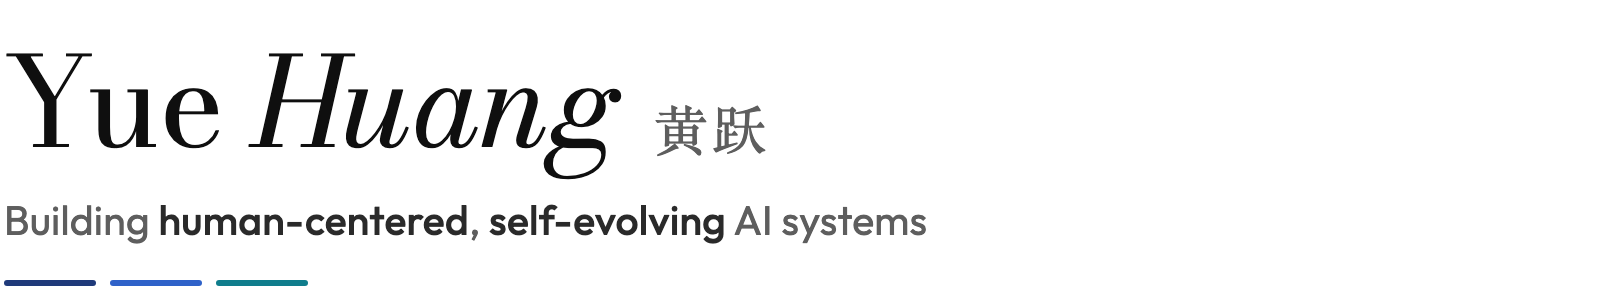
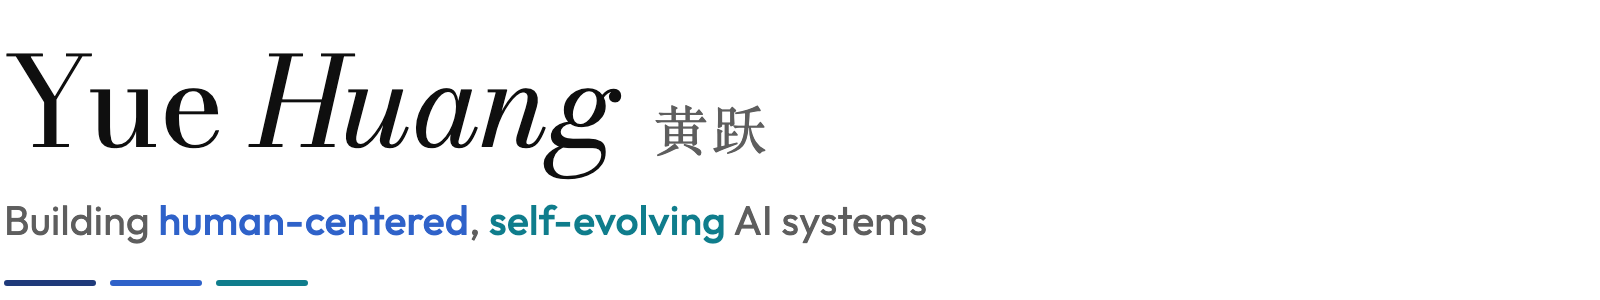
Profile README: a friendlier tone, emoji and colored tagline

Changed region(s): [[0.0938, 0.69, 0.4688, 0.81]]

diff --git a/README.md b/README.md
@@ -5,7 +5,7 @@
 
 [Website](https://howiehwong.github.io/) &nbsp;·&nbsp; [Google Scholar](https://scholar.google.com/citations?user=HvzvvqQAAAAJ) &nbsp;·&nbsp; [X](https://x.com/HowieH36226) &nbsp;·&nbsp; [LinkedIn](https://www.linkedin.com/in/yue-huang-696816265/) &nbsp;·&nbsp; [Email](mailto:yhuang37@nd.edu)
 
-I'm a third-year Ph.D. student at the [University of Notre Dame](https://www.nd.edu/), advised by Prof. [Xiangliang Zhang](https://scholar.google.com/citations?user=BhRJe4wAAAAJ) in the [MINE Lab](https://mine-lab-nd.github.io/). Previously, I did research at Microsoft Research, the MIT-IBM Watson AI Lab & IBM Research, and Tsinghua KEG. I build self-improving, humane and humanized intelligence: foundation models and agentic systems aligned with human values, informed by human cognition, and supported by reliable infrastructure.
+Hi there 👋 I'm Yue, a third-year Ph.D. student at the [University of Notre Dame](https://www.nd.edu/), advised by Prof. [Xiangliang Zhang](https://scholar.google.com/citations?user=BhRJe4wAAAAJ) in the [MINE Lab](https://mine-lab-nd.github.io/). Previously, I did research at Microsoft Research, the MIT-IBM Watson AI Lab & IBM Research, and Tsinghua KEG. I build self-improving, humane and humanized intelligence: foundation models and agentic systems aligned with human values, informed by human cognition, and supported by reliable infrastructure.
 
 <picture>
   <source media="(prefers-color-scheme: dark)" srcset="assets/lane-alignment-dark.png">
@@ -14,30 +14,32 @@ I'm a third-year Ph.D. student at the [University of Notre Dame](https://www.nd.
 
 Aligning foundation models and agentic systems with human values, from individual behavior to collective dynamics, including [emergent social intelligence risks](https://arxiv.org/abs/2603.27771) that agent-level safeguards alone cannot prevent (*Nature Machine Intelligence*).
 
-- [**TrustLLM**](https://github.com/HowieHwong/TrustLLM) (ICML'24): a benchmark and toolkit for LLM trustworthiness
-- [**TrustEval**](https://github.com/TrustGen/TrustEval-toolkit) (ICLR'26, NAACL'25 Demo): a toolkit and benchmark for the trustworthiness of generative foundation models
-- [**RiskLab**](https://github.com/HowieHwong/RiskLab) (ACL'26 Demo): probing emergent risks in LLM-based multi-agent systems
-- [**Awesome-LLM-Safety**](https://github.com/ydyjya/Awesome-LLM-Safety): a curated list of LLM safety papers and resources
+- 🛡 [**TrustLLM**](https://github.com/HowieHwong/TrustLLM) (ICML'24): a benchmark and toolkit for LLM trustworthiness
+- 🧪 [**TrustEval**](https://github.com/TrustGen/TrustEval-toolkit) (ICLR'26, NAACL'25 Demo): a toolkit and benchmark for the trustworthiness of generative foundation models
+- 🕸 [**RiskLab**](https://github.com/HowieHwong/RiskLab) (ACL'26 Demo): probing emergent risks in LLM-based multi-agent systems
+- 📚 [**Awesome-LLM-Safety**](https://github.com/ydyjya/Awesome-LLM-Safety): a curated list of LLM safety papers and resources
 
 <picture>
   <source media="(prefers-color-scheme: dark)" srcset="assets/lane-cognition-dark.png">
   <img alt="Cognition" src="assets/lane-cognition-light.png" height="38">
 </picture>
 
-How models reason and perceive: when to use tools, how to adapt reasoning, and where they fail, plus emotionally adaptive AI such as [Omelune](https://howiehwong.github.io/omelune/).
+How models reason and perceive: when to use tools, how to adapt reasoning, and where they fail, plus emotionally adaptive AI such as [Omelune](https://howiehwong.github.io/omelune/) 🌙
 
-- [**MetaTool**](https://github.com/HowieHwong/MetaTool) (ICLR'24): deciding whether to use tools, and which ones
-- [**ProbeLLM**](https://github.com/HowieHwong/ProbeLLM) (ICML'26): automated, principled diagnosis of LLM failures
+- 🧰 [**MetaTool**](https://github.com/HowieHwong/MetaTool) (ICLR'24): deciding whether to use tools, and which ones
+- 🔍 [**ProbeLLM**](https://github.com/HowieHwong/ProbeLLM) (ICML'26): automated, principled diagnosis of LLM failures
 
 <picture>
   <source media="(prefers-color-scheme: dark)" srcset="assets/lane-infrastructure-dark.png">
   <img alt="Infrastructure" src="assets/lane-infrastructure-light.png" height="38">
 </picture>
 
-The toolchain that makes this possible: synthetic data, guardrails, and systems that improve themselves, such as [Épi](https://bakeai.inc/research/articles/epi/) and [RSI Arena](https://rsiarena.org/).
+The toolchain that makes this possible: synthetic data, guardrails, and systems that improve themselves, such as [Épi](https://bakeai.inc/research/articles/epi/) 🧮 and [RSI Arena](https://rsiarena.org/) 🏟
 
-- [**DataGen**](https://github.com/HowieHwong/DataGen) (ICLR'25): unified synthetic dataset generation with LLMs
-- [**ChemOrch**](https://github.com/HowieHwong/ChemOrch) (NeurIPS'25): synthetic instructions for chemical intelligence
-- [**Safiron**](https://github.com/HowieHwong/Agentic-Guardian) (ICLR'26): a foundational guardrail for agentic systems
-- [**MemoHarness**](https://github.com/HowieHwong/MemoHarness): agent harnesses that learn from experience
-- [**SDE-Harness**](https://github.com/HowieHwong/sde-harness): a framework for evaluating scientific discovery
+- 🏭 [**DataGen**](https://github.com/HowieHwong/DataGen) (ICLR'25): unified synthetic dataset generation with LLMs
+- ⚗ [**ChemOrch**](https://github.com/HowieHwong/ChemOrch) (NeurIPS'25): synthetic instructions for chemical intelligence
+- 🦺 [**Safiron**](https://github.com/HowieHwong/Agentic-Guardian) (ICLR'26): a foundational guardrail for agentic systems
+- 🧠 [**MemoHarness**](https://github.com/HowieHwong/MemoHarness): agent harnesses that learn from experience
+- 🔭 [**SDE-Harness**](https://github.com/HowieHwong/sde-harness): a framework for evaluating scientific discovery
+
+💬 Always happy to chat about research and collaborations. Say hi on [X](https://x.com/HowieH36226) or by [email](mailto:yhuang37@nd.edu)!
